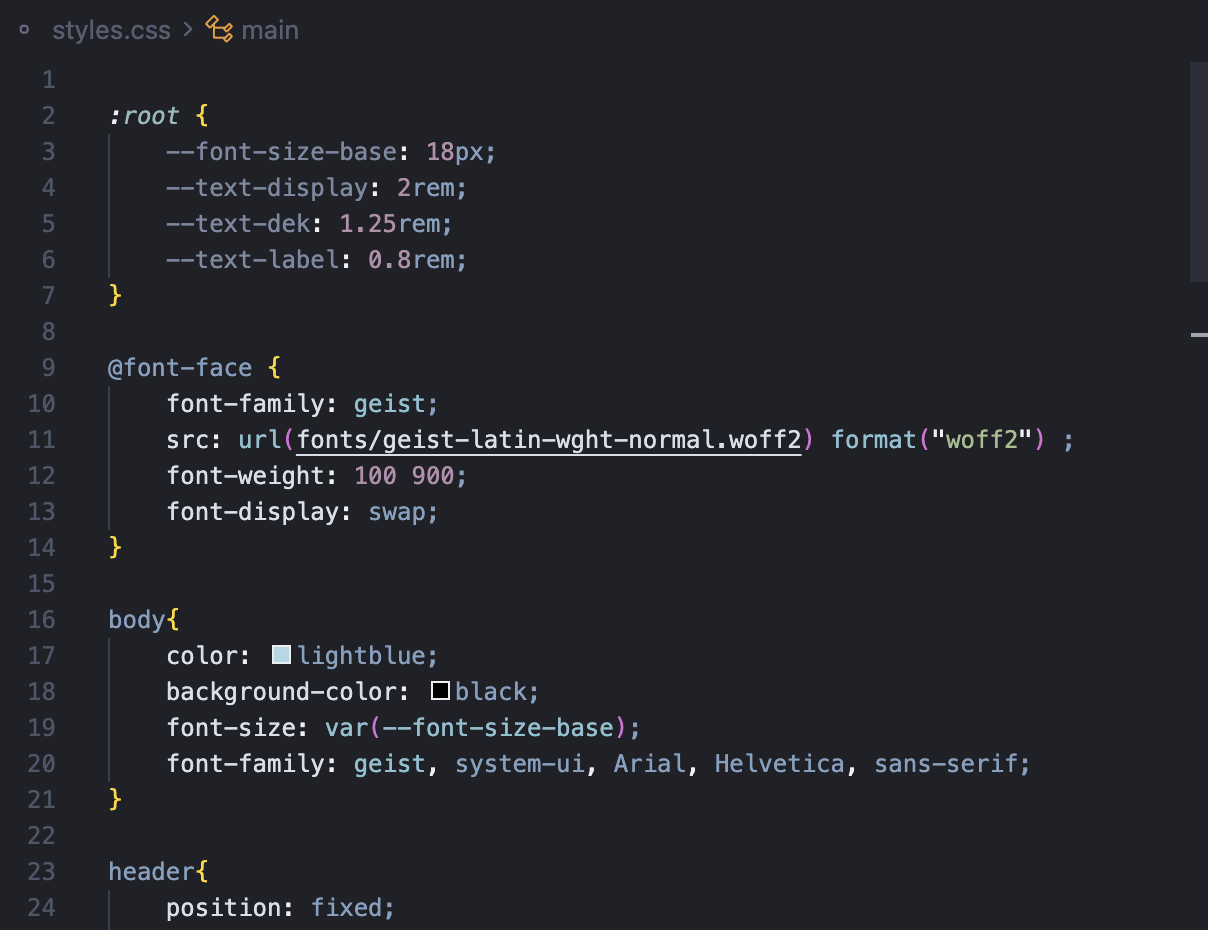
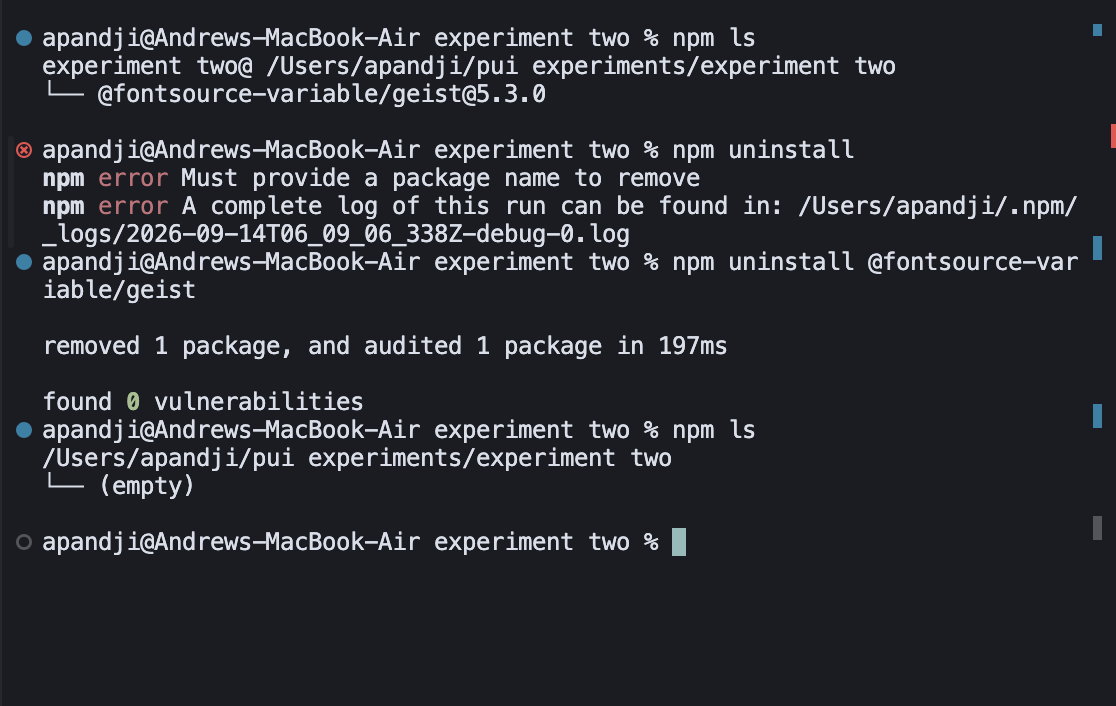
Update post: web dev experiments

diff --git a/src/content/posts/web-dev-experiments.md b/src/content/posts/web-dev-experiments.md
@@ -23,3 +23,10 @@ My portfolio feels a bit better.
 ![image.png](/uploads/web-dev-experiments/image-1.png)
 ![image.png](/uploads/web-dev-experiments/image-1.png)
 ![image.png](/uploads/web-dev-experiments/image-1.png)
+
+# experiment three - npm
+
+For my self directed experiment, I used my buddy AI to teach me about npm. I have used this in the past but never really did commands manually. Things that I learned from this experiment - for the Geist font I used nom like a delivery truck. It loaded in the font files, I moved it to its own folder. This means that I can delete all the extra files which I did through 'rpm uninstall'. I also learned how to see all the things I brought in from the delivery truck by using `nom ls`. I ran out of time but there's more to learn. One thing though here, is my AI definitely hallucinated, and thought there was no /fonts folder. I got mad at it.
+
+![image.png](/uploads/web-dev-experiments/image-1.png)
+![image.png](/uploads/web-dev-experiments/image-1.png)
